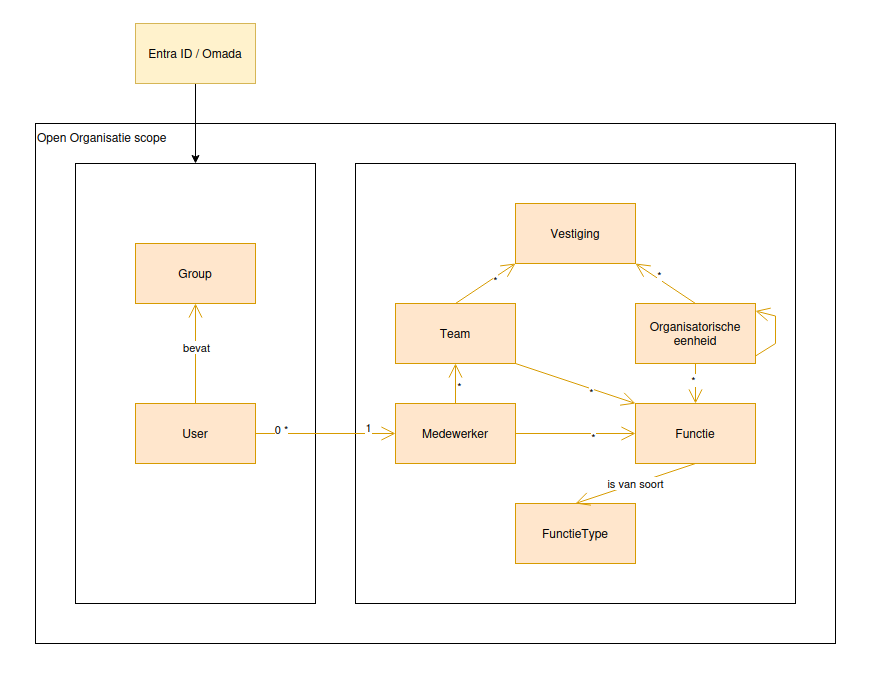
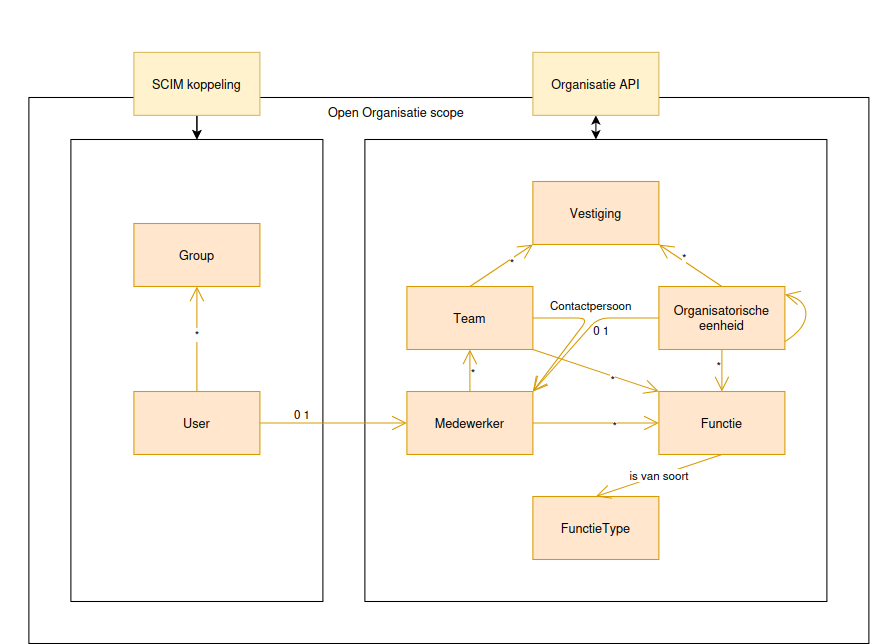
:memo: [#92] update readme

diff --git a/README.EN.rst b/README.EN.rst
@@ -3,7 +3,7 @@ Open Organisatie
 ================
 
 :Version: 0.1.0
-:Source: https://github.com/maykinmedia/openorganisatie
+:Source: https://github.com/maykinmedia/open-organisatie
 :Keywords: ``organisation``
 
 |docs| |docker|
@@ -26,20 +26,39 @@ from Azure Entra ID or other applications.
 In Open Organisatie, employees and teams are stored. An employee contains data such as name, email address,  
 job title, and contact information. A team is a group of employees who together form a specific role or department within the organisation.
 
+Information model
+=================
+
+.. image:: docs/introduction/assets/informatiemodel-diagram.png
+   :alt: Open Organisatie informatiemodel
 
 API specification
 =================
 
-|oas|
+Identity
+--------
 
 ==============  ==============  =============================
-Version         Release date    API specification
+API version     Release date   API specification
 ==============  ==============  =============================
-latest          n/a             `ReDoc <https://redocly.github.io/redoc/?url=https://raw.githubusercontent.com/maykinmedia/open-organisatie/main/src/openorganisatie/api/openapi.yaml>`_,
-                                `Swagger <https://petstore.swagger.io/?url=https://raw.githubusercontent.com/maykinmedia/open-organisatie/main/src/openorganisatie/api/openapi.yaml>`_,
-                                (`diff <https://github.com/maykinmedia/open-organisatie/compare/0.1.0..main#diff-b9c28fec6c3f3fa5cff870d24601d6ab7027520f3b084cc767aefd258cb8c40a>`_)
-0.1.0           YYYY-MM-DD      `ReDoc <https://redocly.github.io/redoc/?url=https://raw.githubusercontent.com/maykinmedia/open-organisatie/0.1.0/src/openorganisatie/api/openapi.yaml>`_,
-                                `Swagger <https://petstore.swagger.io/?url=https://raw.githubusercontent.com/maykinmedia/open-organisatie/0.1.0/src/openorganisatie/api/openapi.yaml>`_
+latest          n/a             `ReDoc <https://redocly.github.io/redoc/?url=https://raw.githubusercontent.com/maykinmedia/open-organisatie/main/src/identiteit-openapi.yaml>`_,
+                                `Swagger <https://petstore.swagger.io/?url=https://raw.githubusercontent.com/maykinmedia/open-organisatie/main/src/identiteit-openapi.yaml>`_,
+                                (`diff <https://github.com/maykinmedia/open-organisatie/compare/0.1.0..main>`_)
+0.1.0           YYYY-MM-DD      `ReDoc <https://redocly.github.io/redoc/?url=https://raw.githubusercontent.com/maykinmedia/open-organisatie/0.1.0/src/identiteit-openapi.yaml>`_,
+                                `Swagger <https://petstore.swagger.io/?url=https://raw.githubusercontent.com/maykinmedia/open-organisatie/0.1.0/src/identiteit-openapi.yaml>`_
+==============  ==============  =============================
+
+Organisation
+-----------
+
+==============  ==============  =============================
+API version     Release date   API specification
+==============  ==============  =============================
+latest          n/a             `ReDoc <https://redocly.github.io/redoc/?url=https://raw.githubusercontent.com/maykinmedia/open-organisatie/main/src/organisatie-openapi.yaml>`_,
+                                `Swagger <https://petstore.swagger.io/?url=https://raw.githubusercontent.com/maykinmedia/open-organisatie/main/src/organisatie-openapi.yaml>`_,
+                                (`diff <https://github.com/maykinmedia/open-organisatie/compare/0.1.0..main>`_)
+0.1.0           YYYY-MM-DD      `ReDoc <https://redocly.github.io/redoc/?url=https://raw.githubusercontent.com/maykinmedia/open-organisatie/0.1.0/src/organisatie-openapi.yaml>`_,
+                                `Swagger <https://petstore.swagger.io/?url=https://raw.githubusercontent.com/maykinmedia/open-organisatie/0.1.0/src/organisatie-openapi.yaml>`_
 ==============  ==============  =============================
 
 Previous versions are supported for 6 month after the next version is released.

diff --git a/README.rst b/README.rst
@@ -26,20 +26,40 @@ vanuit Azure Entra ID of andere applicaties.
 In Open Organisatie worden medewerkers en teams opgeslagen. Een medewerker bevat gegevens zoals naam, e-mailadres, 
 functie en contactinformatie. Een team is een groep medewerkers die samen een bepaalde rol of afdeling vormen binnen de organisatie.
 
+Informatiemodel
+===============
+
+.. image:: docs/introduction/assets/informatiemodel-diagram.png
+   :alt: Open Organisatie informatiemodel
+
 
 API specificatie
 ================
 
-|oas|
+Identiteit
+----------
 
 ==============  ==============  =============================
-Versie          Release datum   API specificatie
+API versie      Release datum   API specificatie
 ==============  ==============  =============================
-latest          n/a             `ReDoc <https://redocly.github.io/redoc/?url=https://raw.githubusercontent.com/maykinmedia/openorganisatie/main/src/openorganisatie/api/openapi.yaml>`_,
-                                `Swagger <https://petstore.swagger.io/?url=https://raw.githubusercontent.com/maykinmedia/openorganisatie/main/src/openorganisatie/api/openapi.yaml>`_,
-                                (`verschillen <https://github.com/maykinmedia/openorganisatie/compare/0.1.0..main#diff-b9c28fec6c3f3fa5cff870d24601d6ab7027520f3b084cc767aefd258cb8c40a>`_)
-0.1.0           YYYY-MM-DD      `ReDoc <https://redocly.github.io/redoc/?url=https://raw.githubusercontent.com/maykinmedia/openorganisatie/0.1.0/src/openorganisatie/api/openapi.yaml>`_,
-                                `Swagger <https://petstore.swagger.io/?url=https://raw.githubusercontent.com/maykinmedia/openorganisatie/0.1.0/src/openorganisatie/api/openapi.yaml>`_
+latest          n/a             `ReDoc <https://redocly.github.io/redoc/?url=https://raw.githubusercontent.com/maykinmedia/open-organisatie/main/src/identiteit-openapi.yaml>`_,
+                                `Swagger <https://petstore.swagger.io/?url=https://raw.githubusercontent.com/maykinmedia/open-organisatie/main/src/identiteit-openapi.yaml>`_,
+                                (`diff <https://github.com/maykinmedia/open-organisatie/compare/0.1.0..main>`_)
+0.1.0           YYYY-MM-DD      `ReDoc <https://redocly.github.io/redoc/?url=https://raw.githubusercontent.com/maykinmedia/open-organisatie/0.1.0/src/identiteit-openapi.yaml>`_,
+                                `Swagger <https://petstore.swagger.io/?url=https://raw.githubusercontent.com/maykinmedia/open-organisatie/0.1.0/src/identiteit-openapi.yaml>`_
+==============  ==============  =============================
+
+Organisatie
+-----------
+
+==============  ==============  =============================
+API versie      Release datum   API specificatie
+==============  ==============  =============================
+latest          n/a             `ReDoc <https://redocly.github.io/redoc/?url=https://raw.githubusercontent.com/maykinmedia/open-organisatie/main/src/organisatie-openapi.yaml>`_,
+                                `Swagger <https://petstore.swagger.io/?url=https://raw.githubusercontent.com/maykinmedia/open-organisatie/main/src/organisatie-openapi.yaml>`_,
+                                (`diff <https://github.com/maykinmedia/open-organisatie/compare/0.1.0..main>`_)
+0.1.0           YYYY-MM-DD      `ReDoc <https://redocly.github.io/redoc/?url=https://raw.githubusercontent.com/maykinmedia/open-organisatie/0.1.0/src/organisatie-openapi.yaml>`_,
+                                `Swagger <https://petstore.swagger.io/?url=https://raw.githubusercontent.com/maykinmedia/open-organisatie/0.1.0/src/organisatie-openapi.yaml>`_
 ==============  ==============  =============================
 
 Vorige versies worden nog 6 maanden ondersteund nadat de volgende versie is 
